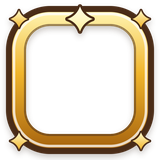
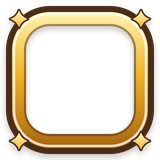
Smettbo #99-Abnahme: ring_gold ohne Stern, ui_kit.json, Store 03_truhen, Abnahme

Changed region(s): [[0.4062, 0.0312, 0.5938, 0.2188]]

diff --git a/docs/abnahme/p9-fix2.md b/docs/abnahme/p9-fix2.md
@@ -1,0 +1,27 @@
+---
+datum: 2026-11-19
+quelle: Live-Build https://2fast2hunter-ai.github.io/velunor/ (main d8ac500, Fix-PR #99, Bundle index-BVXZwNPq.js), 390x844 DPR3: m390_*, xa/, xb/, ring_*_{team,kodex}.png (fix2_mastery.mjs, Meisterschaft lokal per Init-Skript gesetzt)
+status: abgenommen, 1 Rest mittel (R1), 2 niedrig
+---
+# Nachprüfung Fix-PR #99
+
+| Punkt | behoben? | Screenshot |
+|---|---|---|
+| E1 Monstername kein blauer Balken (Kodex-Eintrag, Truhen-Ergebnis) | ja | m390_s_popup_dex.png, xb/09_oeffnen_1200.png |
+| E2 Dock-Schrift „Jetzt abgleichen“ | ja | m390_s_options.png |
+| E3 neuer Starter-Rahmen, „Gewählt“ ganz sichtbar | ja | xa/03_starter_gewaehlt.png |
+| Meisterschaftsringe Bronze/Silber/Gold | ja, sichtbar | ring_bronze/silber/gold_kodex.png |
+| R1 Starter-Wertebalken | **nein** | xa/03_starter_gewaehlt.png |
+| R2 Hinweis Holz-Leiste | ja | xa/02_name_leer_fokus.png |
+| R3 Log unter Dock-Slots | ja | xa/05_hub.png |
+| R4 Aktivitäten-Dock | ja (Tabs eigene Zeile) | xb/06_aktivitaeten_tage.png |
+| R5 PC-Bereich im Panel | ja | m390_s_team.png |
+| R6 Rang-Untertab „Freunde“ | ja | m390_s_ranks.png |
+| R7 Erfolge-Knopf „Titel“ | ja | m390_s_achievements.png |
+
+## Rest
+| # | Prio | Befund | Datei:Zeile / Fix |
+|---|---|---|---|
+| R1 | mittel | Starter-Balken: Mitte der Füllung leer (dunkle Bahn scheint durch), nur roter Rand oben/unten. Ursache liegt in meiner Kit-Angabe: fill_*.png ist 40 px hoch mit Slice 20 oben/unten → kein Mittelstück; bei Balken > 2× border-image-width bleibt die Mitte leer | ui-kit.css:1055 (+ Fortschritts-Gruppe :602–622): `border-image-slice: 0 20 fill; border-image-width: 0 8px` (Bahn: `0 28 fill`). ui_kit.json ist korrigiert (Slice oben/unten 0) |
+| F1 | niedrig | Goldring: Stern oben wurde im Kantenstück in die Breite gezogen | Asset neu gezeichnet ohne Stern (ui_kit/mastery/ring_gold.png + webp) – bitte ins Repo übernehmen |
+| F2 | niedrig | Aktivitäten-Tabs/„In den Hort“/„In den PC“: Beschriftung sehr klein (~8 css-px) | ui-kit.css:1261–1269 (22 px) → 28–30 px für `.menu-dock > button` |
